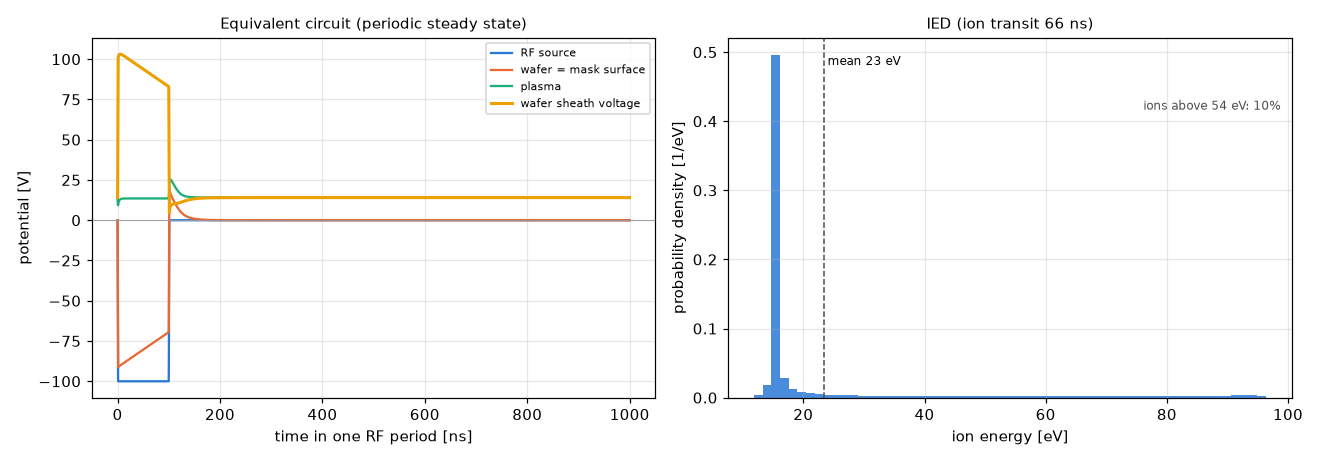
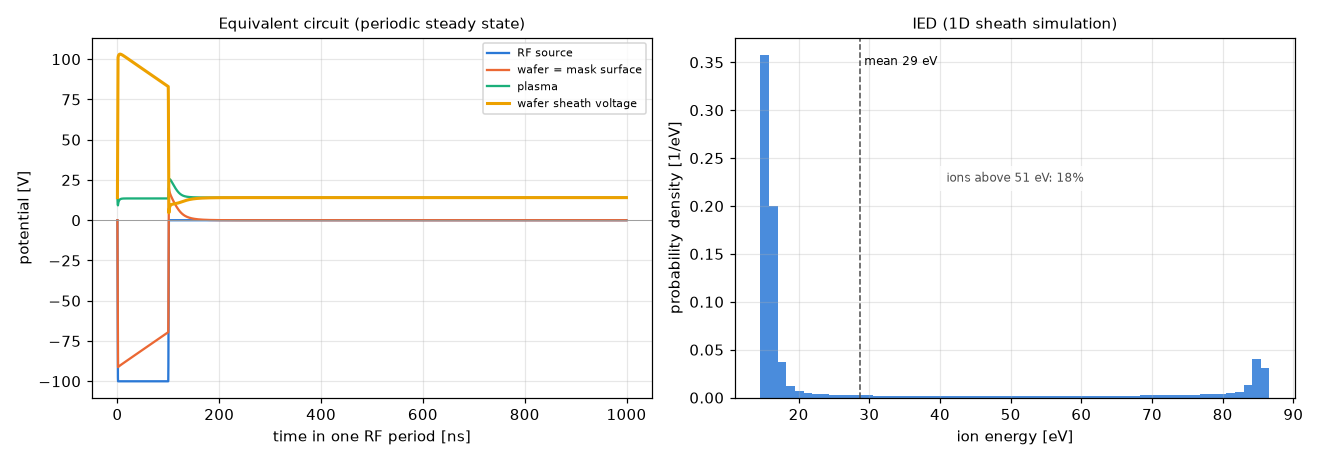
feat: 1 次元シースの時間発展から IED を求めるモデルを追加し既定にする
- sheath_ied.py を追加: 等価回路のウェハ側シース電圧 V1(t) を境界条件にして、
  1 次元・無衝突のシース (イオンは粒子、電子はボルツマン分布、Poisson は Newton 法) を
  時間発展させ、電極に着いたイオンのエネルギーを IED にする
- ied_model に sheath を追加して既定にした (transit / instant も残す)。等価回路はそのまま
- パルスでシースが一気に広がるときのイオンの加速や、2 MHz 前後でのイオン流の変調を扱える
- 直流でエネルギーが e V1 + Te/2 と 0.03 eV 以内で一致、イオン数の保存、
  400 kHz で instant・60 MHz で transit と一致、数値パラメーターへの収束を確認
- GUI の「回路の波形…」を別スレッドで計算するようにした
- README の IED の表・トレンチの帯電の表・図を新しいモデルで更新

diff --git a/sheath_ied.py b/sheath_ied.py
@@ -1,0 +1,146 @@
+#!/usr/bin/env python3
+# -*- coding: utf-8 -*-
+"""
+1 次元シースの時間発展からイオンエネルギー分布 (IED) を求める (ied_model="sheath")
+================================================================================
+
+等価回路 (plasma_circuit.py) が出したウェハ側シース電圧 V1(t) を境界条件にして、
+電極 (ウェハ表面) とプラズマの間の 1 次元・静電・無衝突のシースを時間発展させる。
+
+* 領域: 電極 y=0 から プラズマ側 y=L まで (L は V1 の最大値での Child 則のシース厚の 1.5 倍 + 5 λ_D。
+  実際のシースは Child 則より 1.6〜1.9 λ_D 厚いが、十分に収まる)。
+  境界は φ(0) = -V1(t) (電極), φ(L) = 0 (プラズマ)。
+* イオン: 粒子 (マクロ粒子)。y=L から Bohm 速度 u_B で、一定のフラックス Γ (Params.flux) で入れる。
+  電極に着いたら吸収し、そのときの運動エネルギーを記録する。
+* 電子: ボルツマン分布 n_e = n_s exp(φ/Te) (電位の変化に瞬時に応答)。n_s = Γ / u_B はシース端の密度。
+* Poisson 方程式 ε0 φ'' = -e (n_i - n_e(φ)) は電子のせいで非線形なので、毎ステップ Newton 法で解く
+  (三重対角)。イオン密度は粒子から線形の重み (CIC) で格子点に集める。
+* 時間は leapfrog。電極に着いたイオンのエネルギーは、最後のステップの中での電位差で補正する
+  (E = M v^2 / 2 + e (φ(y_n) - φ(0)), v は時刻 n の速度)。
+* 最初は領域を密度 n_s・速度 u_B のイオンで満たし、warmup (イオンが領域を何度も入れ替わる時間) だけ
+  回してから、RF 周期の整数倍 (min_collect 以上) の間に電極に着いたイオンを集める。
+  イオン電流は時間的に一定で注入するので、集めたイオンはそのまま等しい重みの IED になる。
+
+パルスでシースが一気に広がる動き (イオンのマトリクスシース) や、イオンが電圧に追従できるかどうか
+(周波数とイオンのプラズマ周波数の比) を、粒子の運動として直接扱う。
+"""
+import time
+
+import numpy as np
+from scipy.linalg import solve_banded
+
+E_CHARGE = 1.602176634e-19   # [C]   (trench_charging_2d.py と同じ値)
+EPS0 = 8.8541878128e-12      # [F/m]
+
+
+def _child_thickness(V, el):
+    """Child 則のシース厚 [m] (等価回路のシース容量と同じ式)。"""
+    V = np.maximum(V, 0.0)
+    return (4 / 3) * EPS0 * V / (el["K"] * (V + el["Te"]) ** 0.25)
+
+
+def ion_energies(t, V1, el, flux, ppc=200, dy_per_debye=0.25, dt_max=0.25e-9, warmup=2e-6,
+                 min_collect=1e-6, l_factor=1.5, seed=0):
+    """シース電圧の 1 周期分の波形 V1(t) (t: 等間隔, 周期 = t[1] * len(t)) から、電極に着いたイオンの
+    エネルギー [eV] の配列と、計算条件の dict を返す。
+    el: plasma_circuit.circuit_elements の dict (Te, m_i, K を使う), flux: イオンフラックス [m^-2 s^-1]
+    ppc: プラズマ側の 1 セルあたりのマクロ粒子数, dy_per_debye: 格子間隔 / デバイ長,
+    dt_max: 時間刻みの上限 [s] (周期の 1/100 以下にもする), warmup: 集める前に回す時間 [s],
+    min_collect: イオンを集める時間の下限 [s] (RF 周期の整数倍に切り上げる),
+    l_factor: 領域の長さ L = l_factor x (V1 の最大値での Child 則のシース厚) + 5 λ_D"""
+    t0_wall = time.time()
+    Te, M = el["Te"], el["m_i"]
+    T = t[1] * t.size
+    tg = np.append(t, T)
+    Vg = np.append(V1, V1[0])
+    u_B = np.sqrt(E_CHARGE * Te / M)
+    n_s = flux / u_B                                     # シース端の密度
+    lam_D = np.sqrt(EPS0 * Te / (E_CHARGE * n_s))        # デバイ長
+    L = l_factor * _child_thickness(V1.max(), el) + 5 * lam_D
+    N = int(np.ceil(L / (dy_per_debye * lam_D)))
+    dy = L / N
+    y_nodes = np.arange(N + 1) * dy
+    dt = min(dt_max, T / 100)
+    w = n_s * dy / ppc                                   # マクロ粒子 1 個が表す面密度 [m^-2]
+    qm = E_CHARGE / M
+    k_e = E_CHARGE / EPS0
+    rng = np.random.default_rng(seed)
+
+    # 初期状態: 密度 n_s, 速度 -u_B の一様なイオン
+    n0 = int(round(n_s * L / w))
+    y = rng.uniform(0, L, n0)
+    v = np.full(n0, -u_B)
+
+    # Poisson (内部の格子点 1..N-1) の三重対角行列。対角は Newton 反復ごとに更新する
+    m = N - 1
+    ab = np.zeros((3, m))
+    ab[0, 1:] = 1 / dy ** 2
+    ab[2, :-1] = 1 / dy ** 2
+    phi = np.zeros(N + 1)
+    phi[0] = -np.interp(np.mod(-warmup, T), tg, Vg)
+
+    def solve_phi(ni, phi_left):
+        phi[0] = phi_left
+        p_in = phi[1:-1]
+        for _ in range(20):
+            ex = np.exp(np.minimum(p_in / Te, 50.0))
+            lap = np.empty(m)
+            lap[:] = -2 * p_in
+            lap[1:] += p_in[:-1]
+            lap[:-1] += p_in[1:]
+            lap[0] += phi[0]
+            lap /= dy ** 2
+            F = lap + k_e * (ni[1:-1] - n_s * ex)
+            ab[1] = -2 / dy ** 2 - k_e * n_s * ex / Te
+            d = solve_banded((1, 1), ab, -F)
+            p_in += d
+            if np.abs(d).max() < 1e-5:
+                break
+        else:
+            raise RuntimeError("1 次元シースの Poisson 方程式 (Newton 法) が収束しませんでした")
+        return phi
+
+    n_collect = max(1, int(np.ceil(min_collect / T)))
+    n_steps = int(np.ceil((warmup + n_collect * T) / dt))
+    t_start = -warmup
+    inj_rate = flux * dt / w                             # 1 ステップに入れるマクロ粒子の数 (平均)
+    inj_acc = 0.0
+    energies = []
+    for k in range(n_steps):
+        tk = t_start + k * dt
+        # イオン密度 (CIC)
+        g = y / dy
+        j = np.minimum(g.astype(np.int64), N - 1)
+        f = g - j
+        ni = (np.bincount(j, 1 - f, N + 1) + np.bincount(j + 1, f, N + 1)) * (w / dy)
+        ni[0] *= 2                                       # 境界の格子点は半セル分
+        ni[-1] *= 2
+        phi = solve_phi(ni, -np.interp(np.mod(tk, T), tg, Vg))
+        E_nodes = np.empty(N + 1)
+        E_nodes[1:-1] = -(phi[2:] - phi[:-2]) / (2 * dy)
+        E_nodes[0] = -(phi[1] - phi[0]) / dy
+        E_nodes[-1] = -(phi[-1] - phi[-2]) / dy
+        Ep = E_nodes[j] * (1 - f) + E_nodes[j + 1] * f
+        # leapfrog
+        v_old = v
+        v = v + qm * Ep * dt
+        y_new = y + v * dt
+        hit = y_new <= 0
+        if hit.any() and tk >= 0:
+            vn = 0.5 * (v_old[hit] + v[hit])
+            phi_y = phi[j[hit]] * (1 - f[hit]) + phi[j[hit] + 1] * f[hit]
+            energies.append(0.5 * M * vn ** 2 / E_CHARGE + (phi_y - phi[0]))
+        keep = (~hit) & (y_new < L)
+        y, v = y_new[keep], v[keep]
+        # プラズマ側からの注入 (時間的に一様)
+        inj_acc += inj_rate
+        n_new = int(inj_acc)
+        inj_acc -= n_new
+        if n_new:
+            y = np.concatenate([y, L - u_B * dt * rng.uniform(0, 1, n_new)])
+            v = np.concatenate([v, np.full(n_new, -u_B)])
+
+    E = np.concatenate(energies) if energies else np.zeros(0)
+    info = dict(L=L, dy=dy, N=N, dt=dt, steps=n_steps, lam_D=lam_D, n_s=n_s, ions=E.size,
+                periods=n_collect, seconds=time.time() - t0_wall, y=y_nodes, phi=phi.copy())
+    return E, info

diff --git a/trench_charging_gui.py b/trench_charging_gui.py
@@ -609,6 +609,12 @@ class App(tk.Tk):
                     self.status1.set("エラーが発生しました")
                     self._log(payload)
                     messagebox.showerror("計算エラー", payload.splitlines()[-1])
+                elif kind == "circuit":
+                    self.show_circuit(payload)
+                elif kind == "circuit_error":
+                    self.btn_circuit.configure(state="normal")
+                    self._log(payload)
+                    messagebox.showerror("等価回路のエラー", payload.splitlines()[-1])
         except queue.Empty:
             pass
         self._fit_figure()
@@ -675,7 +681,8 @@ class App(tk.Tk):
 
     # ---------------- 等価回路の確認
     def on_circuit(self):
-        """今の入力値で RF バイアスの等価回路を解き、波形と IED を別ウィンドウに表示する。"""
+        """今の入力値で RF バイアスの等価回路を解き、波形と IED を別ウィンドウに表示する。
+        1 次元シースの計算は数〜20 秒かかるので別スレッドで行い、終わったら poll() から show_circuit を呼ぶ。"""
         try:
             p = self.get_params()
             err = validate(p)
@@ -687,11 +694,19 @@ class App(tk.Tk):
         if p.bias != "rf":
             messagebox.showinfo("回路の波形", "バイアスが dc のときは等価回路を使いません (全イオンが同じエネルギー)。")
             return
+        self.btn_circuit.configure(state="disabled")
+        self._log(f"回路の波形: {PC.source_label(p)} の等価回路と IED ({p.ied_model}) を計算しています…")
+        threading.Thread(target=self._circuit_work, args=(p,), daemon=True).start()
+
+    def _circuit_work(self, p):
+        """ワーカースレッド。Tk には触らず、queue 経由で結果を渡す。"""
         try:
-            c = PC.solve_circuit(p)
-        except (RuntimeError, ValueError) as e:
-            messagebox.showerror("等価回路のエラー", str(e))
-            return
+            self.q.put(("circuit", PC.solve_circuit(p)))
+        except Exception:
+            self.q.put(("circuit_error", traceback.format_exc()))
+
+    def show_circuit(self, c):
+        self.btn_circuit.configure(state="normal")
         win = tk.Toplevel(self)
         win.title("RF バイアスの等価回路")
         fig = Figure(figsize=(11, 4.2), dpi=100, constrained_layout=True)

diff --git a/trench_charging_2d.py b/trench_charging_2d.py
@@ -25,7 +25,8 @@
 * 入射条件(上端境界):
     - イオン  : 垂直入射 + 横方向の熱速度 Ti。エネルギーは bias="rf" (既定) なら RF バイアスの
                 プラズマ等価回路 (plasma_circuit.py: RF 電源 → ブロッキングコンデンサ → ウェハ → SiO2 →
-                マスク → シース → プラズマ → シース → 接地) を RF 周期定常まで解いて求めた IED から選ぶ。
+                マスク → シース → プラズマ → シース → 接地) を RF 周期定常まで解き、そのシース電圧で
+                1 次元のシースを時間発展させて求めた IED (sheath_ied.py, ied_model="sheath") から選ぶ。
                 電源の波形は正弦波 (既定) か、負に凸の矩形パルス (rf_wave="pulse", 幅 rf_duty) 。
                 bias="dc" なら全イオンが ion_energy_eV。
                 帯電の時定数 (ms) は RF 周期 (74 ns) よりずっと長いので、IED だけを使う (一方向の連成)。
@@ -117,7 +118,7 @@ class Params:
     c_block: float = 4900e-12  # ブロッキングコンデンサ [F]
     wafer_d: float = 0.3      # ウェハ (電極) の直径 [m]
     wall_ratio: float = 5.0   # 接地側 (壁) の面積 / ウェハの面積
-    ied_model: str = "transit"  # "transit": シース通過時間で平均した IED / "instant": 瞬時のシース電圧
+    ied_model: str = "sheath"  # IED: "sheath" (1 次元シースの時間発展) / "transit" (通過時間で平均) / "instant"
     # ---- 表面リーク ----
     sigma_s: float = 1e-15    # 表面シート伝導度 [S] (0=リークなし)。目安: 1e-16〜1e-13
     #                           導電性マスクでは、マスク境目の電荷を逃がすため 0 より大きくする
@@ -504,6 +505,8 @@ def run(p, log=print, progress=None, stop=None):
         log(f"表面リーク ON: sigma_s={p.sigma_s:g} S, 表面セル数 {leak['flat'].size}")
     circuit, ion_energy = None, None
     if p.bias == "rf":
+        if p.ied_model == "sheath":
+            log("RF バイアスの等価回路と 1 次元シースを計算しています (数〜20 秒)…")
         circuit = PC.solve_circuit(p)
         ion_energy = PC.ion_energy_sampler(circuit)
         log(f"RF バイアスの電源: {PC.source_label(p)}, C_b {p.c_block*1e12:g} pF, "
